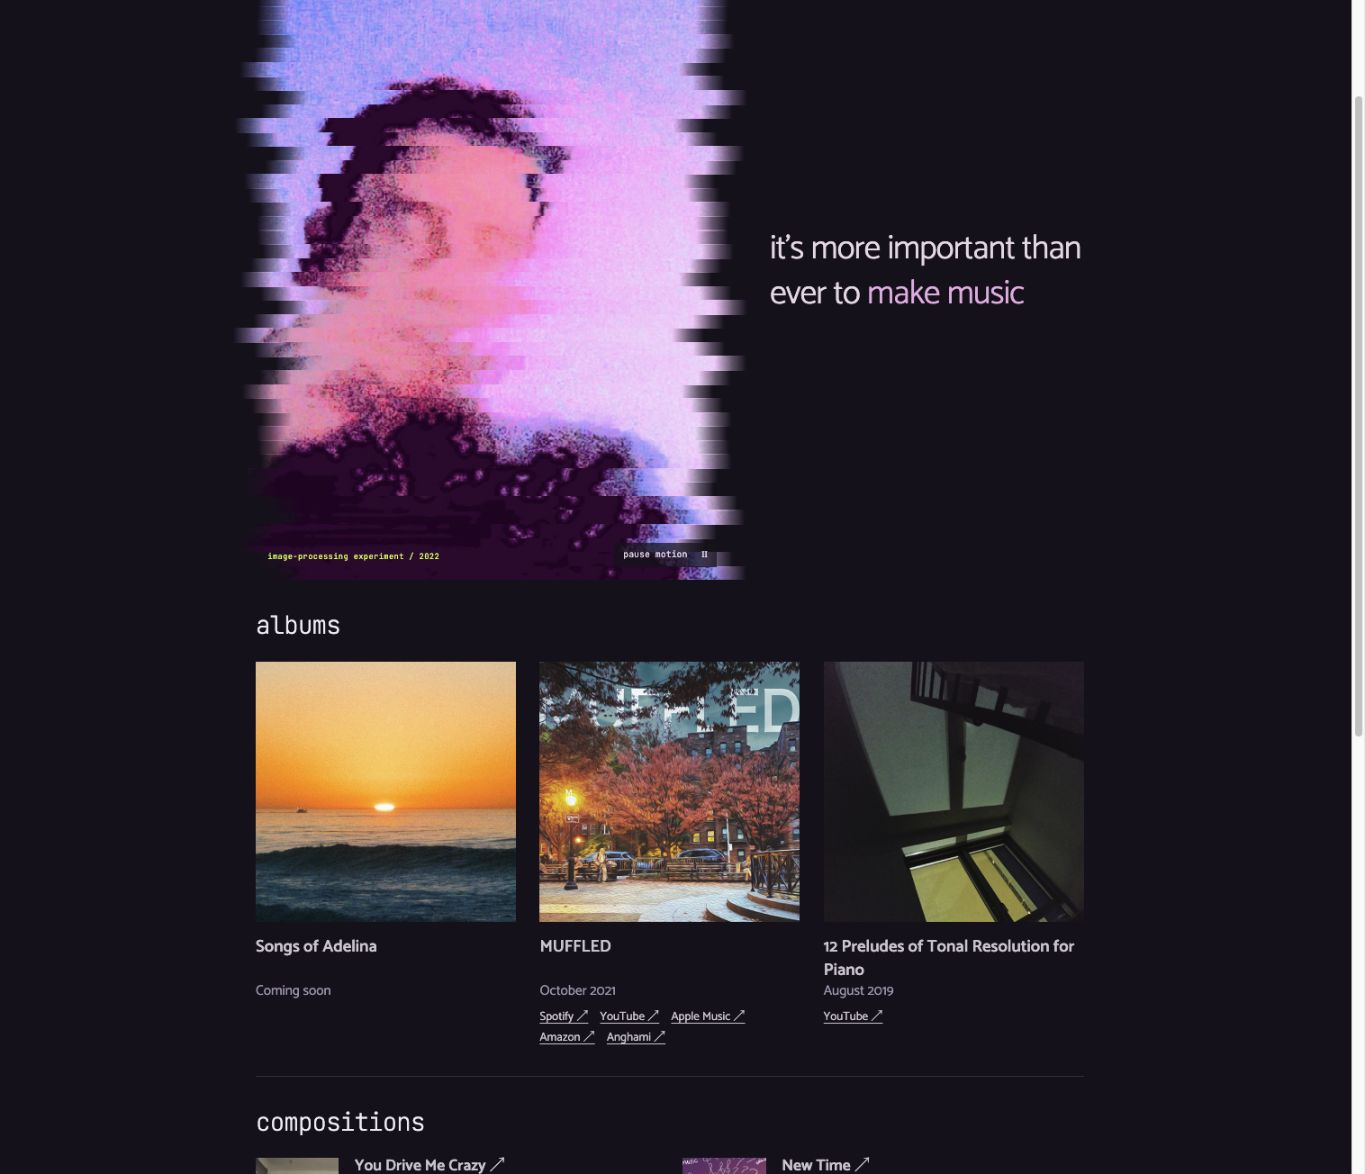
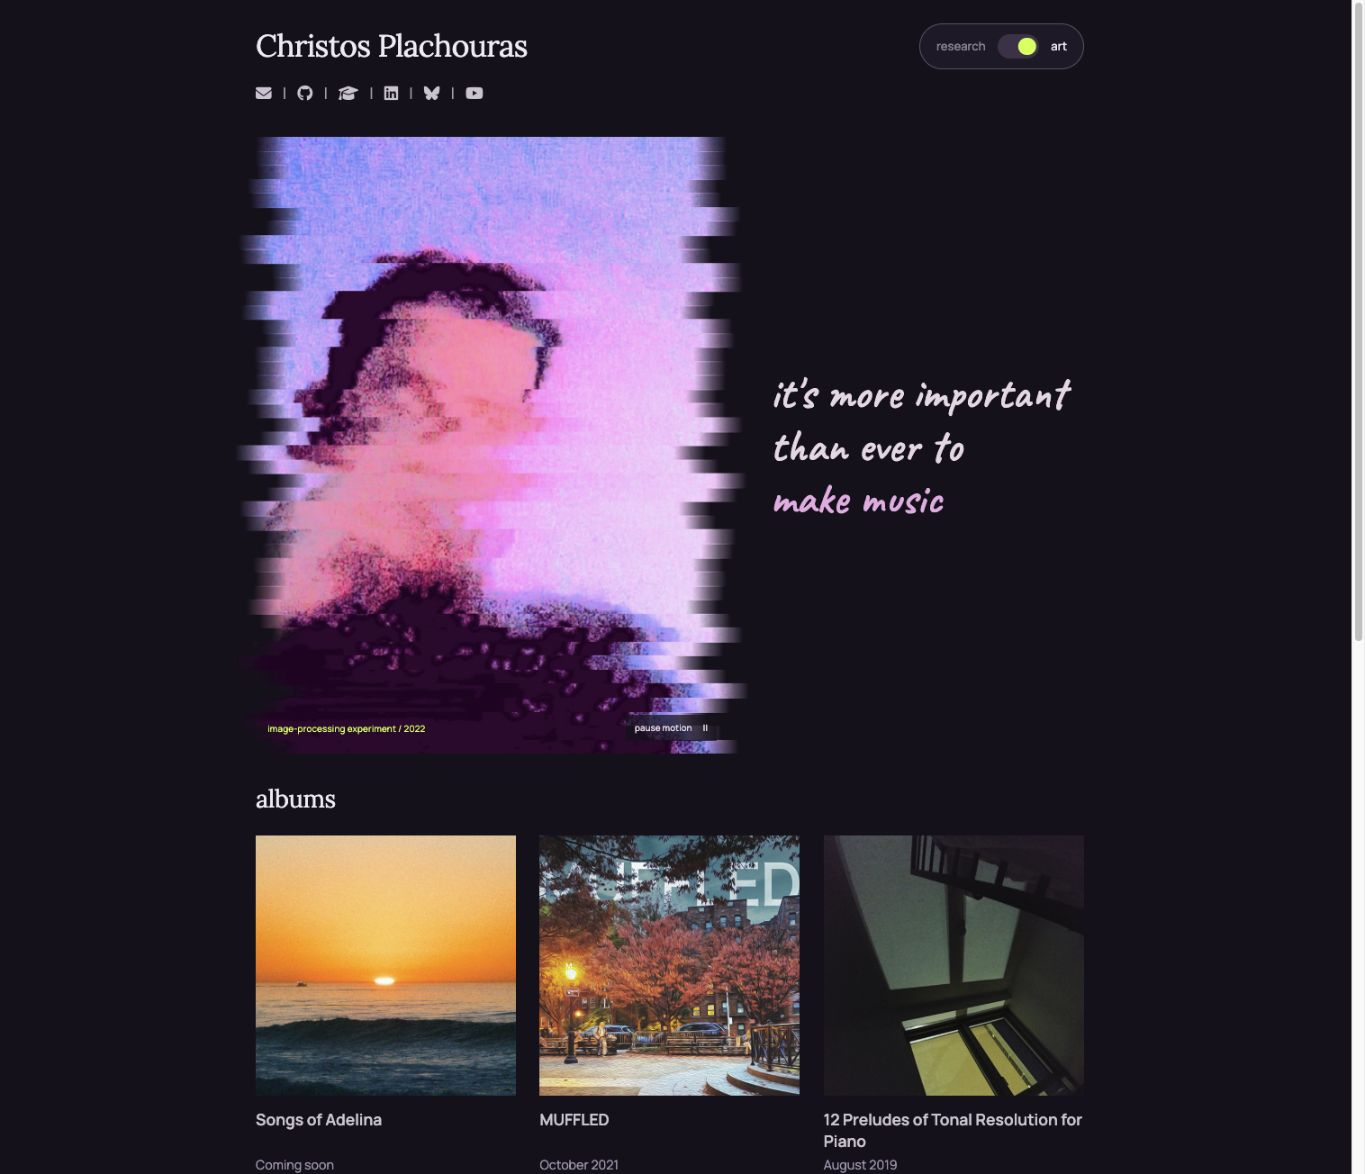
Revise typography with Lora, Manrope, and handwritten art statement

diff --git a/prototypes/assets/classic/portfolio.css b/prototypes/assets/classic/portfolio.css
@@ -1,24 +1,24 @@
-:root { --ink:#3a3a41; --heading:#27292b; --rule:#d2d7d9; --accent:#790000; --body:'Catamaran',Arial,sans-serif; --mono:'JetBrains Mono',monospace; }
+:root { --ink:#3a3a41; --heading:#27292b; --rule:#d2d7d9; --accent:#790000; --body:'Manrope',Arial,sans-serif; --display:'Lora',Georgia,serif; --hand:'Caveat','Segoe Print',cursive; }
 * { box-sizing:border-box; }
 html { scroll-behavior:auto; }
-body { margin:0; background:#fff; color:var(--ink); font-family:var(--body); font-size:16px; font-weight:400; line-height:1.4; }
+body { margin:0; background:#fff; color:var(--ink); font-family:var(--body); font-size:15px; font-weight:400; line-height:1.55; }
 button { font:inherit; cursor:pointer; color:inherit; }
 a { color:inherit; text-decoration:none; }
 a:hover { color:var(--accent); }
 a:focus-visible,button:focus-visible { outline:2px solid #8a5c9e; outline-offset:5px; }
 img { display:block; max-width:100%; }
 h1,h2,h3,h4,p,figure { margin:0; }
-h1,h2 { font-family:var(--mono); font-weight:200; color:var(--heading); }
-h1 { font-size:32px; line-height:1.3; letter-spacing:-1.2px; }
-h2 { font-size:25px; line-height:1.3; letter-spacing:-.8px; }
+h1,h2 { font-family:var(--display); font-weight:400; color:var(--heading); }
+h1 { font-size:31px; line-height:1.3; letter-spacing:-.7px; }
+h2 { font-size:25px; line-height:1.3; letter-spacing:-.4px; }
 h3 { font-size:16px; font-weight:600; line-height:1.35; }
-h4 { font-size:17px; font-weight:400; margin:18px 0 10px; }
+h4 { font-size:15px; font-weight:600; margin:18px 0 10px; }
 strong,b { color:var(--heading); font-weight:600; }
 [hidden] { display:none!important; }
 .page-shell { max-width:960px; margin:24px auto 0; padding:0 68px 0 56px; }
 .site-header { padding-bottom:23px; border-bottom:1px solid var(--rule); }
 .name-row { display:flex; align-items:center; justify-content:space-between; gap:25px; }
-.mode-switch { display:flex; align-items:center; justify-content:center; gap:12px; flex-shrink:0; border:1px solid #c5c6ca; border-radius:25px; padding:10px 16px; background:#f6f6f7; font-family:var(--mono); font-size:13px; font-weight:400; min-height:45px; }
+.mode-switch { display:flex; align-items:center; justify-content:center; gap:12px; flex-shrink:0; border:1px solid #c5c6ca; border-radius:25px; padding:10px 16px; background:#f6f6f7; font-family:var(--body); font-size:12px; font-weight:500; min-height:45px; }
 .switch-track { position:relative; display:block; width:42px; height:24px; border-radius:15px; background:#38363e; }
 .switch-knob { position:absolute; top:3px; left:3px; width:18px; height:18px; border-radius:50%; background:#fff; }
 .art-label { opacity:.45; }
@@ -41,14 +41,14 @@ body[data-crossing=true] .switch-knob { transition:transform .7s cubic-bezier(.4
 #portrait-fallback { position:absolute; left:31px; top:19px; width:162px; transform:rotate(-90deg); }
 .content-section { padding:25px 0 28px; border-bottom:1px solid var(--rule); scroll-margin-top:24px; }
 .content-section>h2 { margin-bottom:20px; }
-.boxed { display:flow-root; margin:0 0 10px; font-size:15px; line-height:1.3; min-height:42px; }
+.boxed { display:flow-root; margin:0 0 10px; font-size:14px; line-height:1.45; min-height:42px; }
 .boxed:last-child { margin-bottom:0; }
 .boxed .image.entry { float:left; width:53px; margin:2px 10px 7px 0; padding-right:10px; border-right:1px solid var(--rule); }
 .boxed .image.entry img { width:42px; max-height:43px; object-fit:contain; }
 .boxed .image.entry+p { margin-left:63px; }
 #background h4 { margin-top:20px; }
 #background h4:first-of-type { margin-top:0; }
-#research { line-height:1.4; }
+#research { line-height:1.55; }
 #research h4 { margin-bottom:4px; }
 #research>.boxed { margin-bottom:15px; }
 #research .boxed a { display:inline-block; margin:0 2px; }
@@ -65,18 +65,18 @@ body[data-crossing=true] .switch-knob { transition:transform .7s cubic-bezier(.4
   .album-cover.is-tilting { transition:transform 100ms ease-out,box-shadow 250ms ease-out; box-shadow:0 10px 22px #0003; }
   .album-cover.is-tilting::after { opacity:var(--shine-opacity,.6); }
 }
-.album h3 { font-size:17px; font-weight:600; margin-top:14px; min-height:46px; }
-.album>p { font-size:14px; margin-bottom:8px; }
+.album h3 { font-size:16px; font-weight:600; margin-top:14px; min-height:46px; }
+.album>p { font-size:13px; margin-bottom:8px; }
 .work-links { display:flex; flex-wrap:wrap; gap:4px 12px; font-size:12px; }
 .work-links a { text-decoration:underline; text-underline-offset:3px; }
 .music-list { display:grid; grid-template-columns:repeat(2,minmax(0,1fr)); gap:28px 26px; }
 .music-entry { display:grid; grid-template-columns:84px minmax(0,1fr); align-items:start; gap:16px; }
 .music-entry img { width:84px; height:84px; object-fit:cover; }
-.music-entry h3 { font-size:16px; line-height:1.35; margin:-2px 0 7px; }
-.music-entry p { font-size:14px; line-height:1.4; }
+.music-entry h3 { font-size:15px; line-height:1.4; margin:-2px 0 7px; }
+.music-entry p { font-size:13px; line-height:1.55; }
 .music-entry a:hover { text-decoration:underline; text-underline-offset:3px; }
 footer { display:flex; justify-content:space-between; gap:20px; padding:22px 0 30px; font-size:12px; color:#81818a; }
-.studies-link { font-size:9px; font-family:var(--mono); white-space:nowrap; }
+.studies-link { font-size:10px; font-family:var(--body); white-space:nowrap; }
 /* The art page uses one image and a still, dark surrounding surface. */
 body[data-mode=art] { --ink:#d1cbd7; --heading:#f1edf4; --rule:#ffffff21; --accent:#d9ff60; background:#15101d; }
 body[data-mode=art] .mode-switch { color:#eee9f1; background:#211b2b; border-color:#655a70; }
@@ -89,12 +89,12 @@ body[data-mode=art] a:focus-visible,body[data-mode=art] button:focus-visible { o
 body[data-mode=art] .portrait-panel { width:calc(100% + var(--spill) * 2); height:100%; margin-left:calc(-1 * var(--spill)); padding:0; border:0; }
 body[data-mode=art] #portrait { width:100%; height:100%; }
 body[data-mode=art] #portrait-fallback { left:var(--spill); top:0; width:calc(100% - var(--spill) * 2); height:100%; transform:none; object-fit:contain; mask-image:linear-gradient(to right,transparent,#000 7%,#000 93%,transparent); }
-.art-statement { max-width:10em; font-size:34px; font-weight:300; line-height:1.35; letter-spacing:-.6px; color:#e8dce7; }
+.art-statement { max-width:8em; font-family:var(--hand); font-size:46px; font-weight:500; line-height:1.15; letter-spacing:0; color:#e8dce7; }
 .art-statement span { color:#e9b5e6; white-space:nowrap; }
 body[data-crossing=true][data-mode=art] .art-statement { animation:statement-arrive 1050ms ease both; }
 @keyframes statement-arrive { 0%,35% { opacity:0; transform:translateY(6px); } 100% { opacity:1; transform:none; } }
-.stage-caption { position:absolute; left:12px; bottom:18px; font-family:var(--mono); font-size:8px; color:#d9ff60; letter-spacing:.3px; }
-#motion-toggle { position:absolute; z-index:3; right:calc(var(--spill) + 10px); bottom:13px; border:0; background:#15101dba; color:#e5dde9; font-family:var(--mono); font-size:9px; padding:6px 9px; }
+.stage-caption { position:absolute; left:12px; bottom:18px; font-family:var(--body); font-size:9px; color:#d9ff60; letter-spacing:.2px; }
+#motion-toggle { position:absolute; z-index:3; right:calc(var(--spill) + 10px); bottom:13px; border:0; background:#15101dba; color:#e5dde9; font-family:var(--body); font-size:9px; font-weight:500; padding:6px 9px; }
 #motion-toggle span { margin-left:9px; }
 body[data-mode=art] .content-section { padding-top:30px; padding-bottom:30px; }
 body[data-mode=art] .album>p { color:#a99fb5; }
@@ -115,13 +115,13 @@ body[data-mode=art] footer { color:#9f94aa; }
   #portrait-fallback { left:17px; }
   .album-grid { gap:20px; }
   .art-stage { --spill:24px; gap:30px; }
-  .art-statement { font-size:28px; }
+  .art-statement { font-size:39px; }
   .album h3 { font-size:15px; }
 }
 @media(max-width:600px) {
   .page-shell { margin-top:20px; padding:0 20px; }
   .name-row { flex-wrap:wrap; gap:15px; }
-  h1 { font-size:25px; letter-spacing:-.8px; }
+  h1 { font-size:25px; letter-spacing:-.5px; }
   h2 { font-size:22px; }
   .mode-switch { padding:8px 14px; min-height:42px; }
   .site-header { padding-bottom:19px; }
@@ -134,7 +134,7 @@ body[data-mode=art] footer { color:#9f94aa; }
   .portrait-panel { width:125px; height:155px; padding-left:13px; margin-top:35px; }
   #portrait { width:112px; height:155px; }
   #portrait-fallback { left:13px; width:112px; }
-  .boxed { font-size:14px; line-height:1.35; margin-bottom:13px; }
+  .boxed { font-size:13px; line-height:1.5; margin-bottom:13px; }
   .boxed .image.entry { width:42px; padding-right:8px; margin-right:10px; }
   .boxed .image.entry img { width:33px; max-height:39px; }
   .boxed .image.entry+p { margin-left:52px; }
@@ -151,7 +151,7 @@ body[data-mode=art] footer { color:#9f94aa; }
   .music-entry p { font-size:12px; }
   .art-stage { --spill:16px; grid-template-columns:1fr; gap:24px; }
   .art-portrait { max-width:460px; }
-  .art-statement { max-width:13em; font-size:28px; padding:0 4px 8px; }
+  .art-statement { max-width:10em; font-size:38px; padding:0 4px 8px; }
   body[data-mode=art] .portrait-panel { margin-top:0; }
   .stage-caption { left:10px; bottom:46px; font-size:8px; }
   #motion-toggle { right:calc(var(--spill) + 7px); bottom:13px; font-size:8px; }

diff --git a/prototypes/instrument/index.html b/prototypes/instrument/index.html
@@ -5,7 +5,7 @@
   <title>Christos Plachouras — Research & Art</title>
   <meta name="description" content="Research in audio and music understanding, compositions, performances, and writing by Christos Plachouras.">
   <link rel="preconnect" href="https://fonts.googleapis.com"><link rel="preconnect" href="https://fonts.gstatic.com" crossorigin>
-  <link href="https://fonts.googleapis.com/css2?family=Catamaran:wght@300;400;500;600;700&family=JetBrains+Mono:wght@200;300;400&display=swap" rel="stylesheet">
+  <link href="https://fonts.googleapis.com/css2?family=Caveat:wght@500&family=Lora:wght@400;500&family=Manrope:wght@400;500;600&display=swap" rel="stylesheet">
   <link rel="stylesheet" href="https://cdnjs.cloudflare.com/ajax/libs/font-awesome/6.7.1/css/all.min.css">
   <link rel="stylesheet" href="../assets/classic/portfolio.css">
   <script src="../assets/classic/content.js" defer></script><script src="../assets/classic/portfolio.js" defer></script><script src="../assets/classic/portrait-switch.js" defer></script>

diff --git a/prototypes/README.md b/prototypes/README.md
@@ -8,6 +8,8 @@ Three standalone directions for Christos Plachouras's website. Open `index.html`
 - **Out of Order:** a typeset reading room, floating gallery fragments, and a folding shutter.
 - **Research / Art (revised Soft Errors):** the current site's compact research scale, full intro/background/research, and a prominent toggle. The portrait expands and blends into the full-height art image, with moving slices that fade at their ends. The line “it's more important than ever to make music” sits alongside the portrait on desktop and below it on mobile. Art has a still dark background and fixed 40% portrait displacement. Large album covers come first, including the sunset cover for **Songs of Adelina — Coming soon**, followed by compositions, performances, and writing. Section navigation links are omitted.
 
+The revised direction uses Lora for headings, Manrope for text and controls, and Caveat for the handwritten art statement.
+
 The research views have no continuous animation or canvas loop. Art motion has a pause control and respects `prefers-reduced-motion`. Canvas work also stops when the tab is hidden. Artwork and research links come from the existing website. The source portrait is the user's supplied corrupted image; its pixels are preserved.
 
 Run from the repository root:
